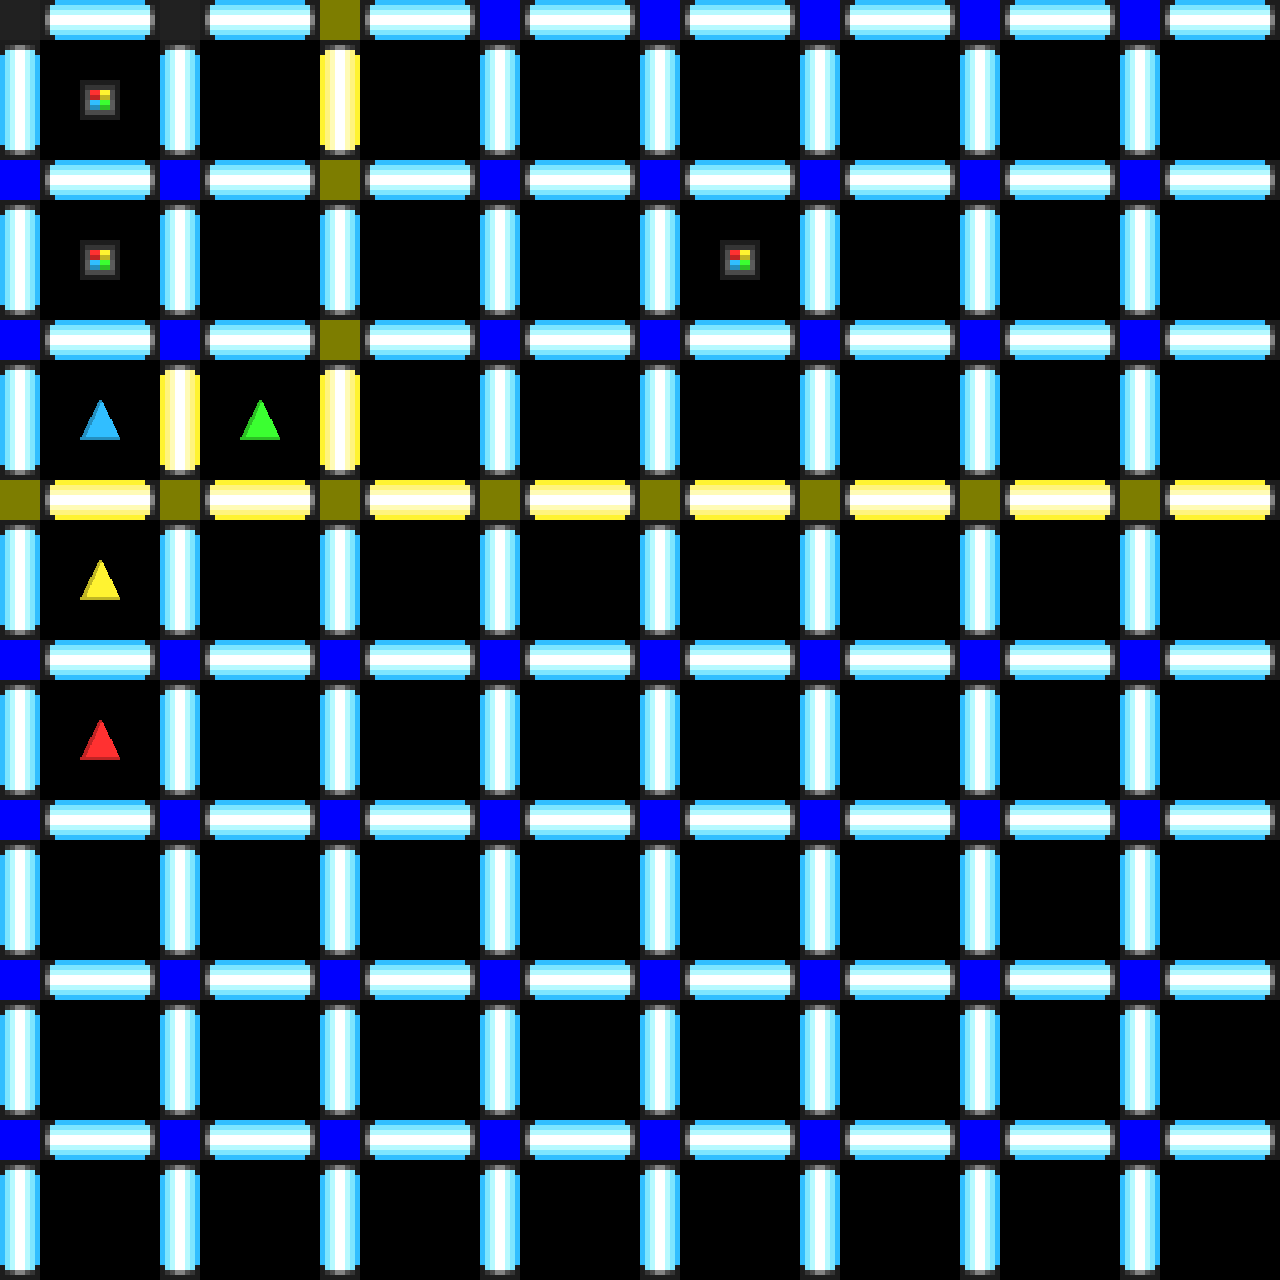
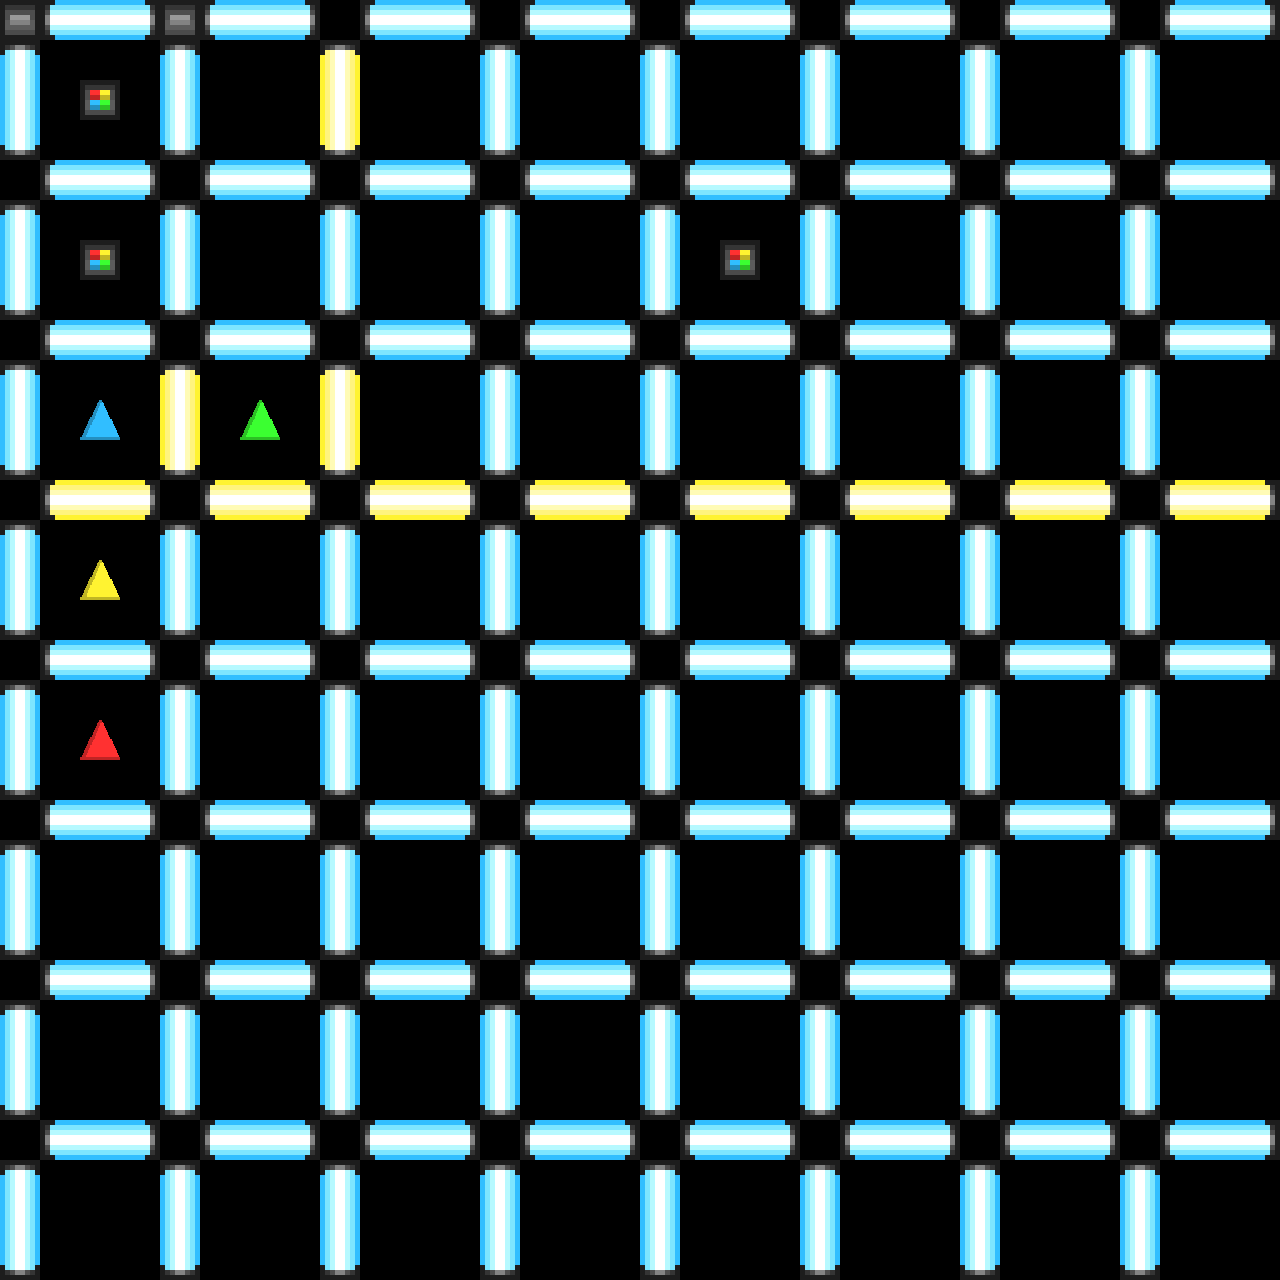
corners show up

diff --git a/data/levels/drawlevel.py b/data/levels/drawlevel.py
@@ -163,11 +163,11 @@ color_to_triangle = {'410' : red_triangle,
                     '440' : yellow_triangle}
 
 tiles = pg.image.load("../assets/tile_sheet.png")
-color_change_tile_rect = (0, 0,40, 40)
+color_change_tile_rect = (0, 0, 40, 40)
 color_change_tile = tiles.subsurface(color_change_tile_rect)
 
-corner_tile_rect = (40, 0,40, 40)
-corner_tile = tiles.subsurface(color_change_tile_rect)
+corner_tile_rect = (40, 0, 40, 40)
+corner_tile = tiles.subsurface(corner_tile_rect)
 
 
 
@@ -183,11 +183,10 @@ def draw_crude(level_map, row, column):
     pg.draw.rect(p_four_level_render, colormap[map_four[mycharacter]], block.move(block.width*mycolumn, block.height*myrow))
     """
     if str(level_map[row][column])[0] == '5':
-        p_one_level_render.blit(pg.transform.scale(color_change_tile, (40,40)), (column*40, row*40))
-        p_two_level_render.blit(pg.transform.scale(color_change_tile, (40,40)), (column*40, row*40))
-        p_three_level_render.blit(pg.transform.scale(color_change_tile, (40,40)), (column*40, row*40))
-        p_four_level_render.blit(pg.transform.scale(color_change_tile, (40,40)), (column*40, row*40))
-
+        p_one_level_render.blit(color_change_tile,  (column*40, row*40))
+        p_two_level_render.blit(color_change_tile,  (column*40, row*40))
+        p_three_level_render.blit(color_change_tile, (column*40, row*40))
+        p_four_level_render.blit(color_change_tile, (column*40, row*40))
 
     elif str(level_map[row][column])[0] == '4':
         p_one_level_render.blit(pg.transform.scale(color_to_triangle[str(level_map[row][column])], (40,40)), (column*40, row*40))
@@ -195,7 +194,15 @@ def draw_crude(level_map, row, column):
         p_three_level_render.blit(pg.transform.scale(color_to_triangle[map_three[str(level_map[row][column])]], (40,40)), (column*40, row*40))
         p_four_level_render.blit(pg.transform.scale(color_to_triangle[map_four[str(level_map[row][column])]], (40,40)), (column*40, row*40))
 
-    else: #str(level_map[row][column])[0] != '4':
+    elif str(level_map[row][column])[0] == '2':
+        p_one_level_render.blit(corner_tile,  (column*40, row*40))
+        p_two_level_render.blit(corner_tile,  (column*40, row*40))
+        p_three_level_render.blit(corner_tile, (column*40, row*40))
+        p_four_level_render.blit(corner_tile, (column*40, row*40))
+
+
+
+    elif str(level_map[row][column])[0] != '1':
         pg.draw.rect(p_one_level_render, colormap[str(level_map[row][column])], block.move(block.width*mycolumn, block.height*myrow))
         pg.draw.rect(p_two_level_render, colormap[map_two[str(level_map[row][column])]], block.move(block.width*mycolumn, block.height*myrow))
         pg.draw.rect(p_three_level_render, colormap[map_three[str(level_map[row][column])]], block.move(block.width*mycolumn, block.height*myrow))
